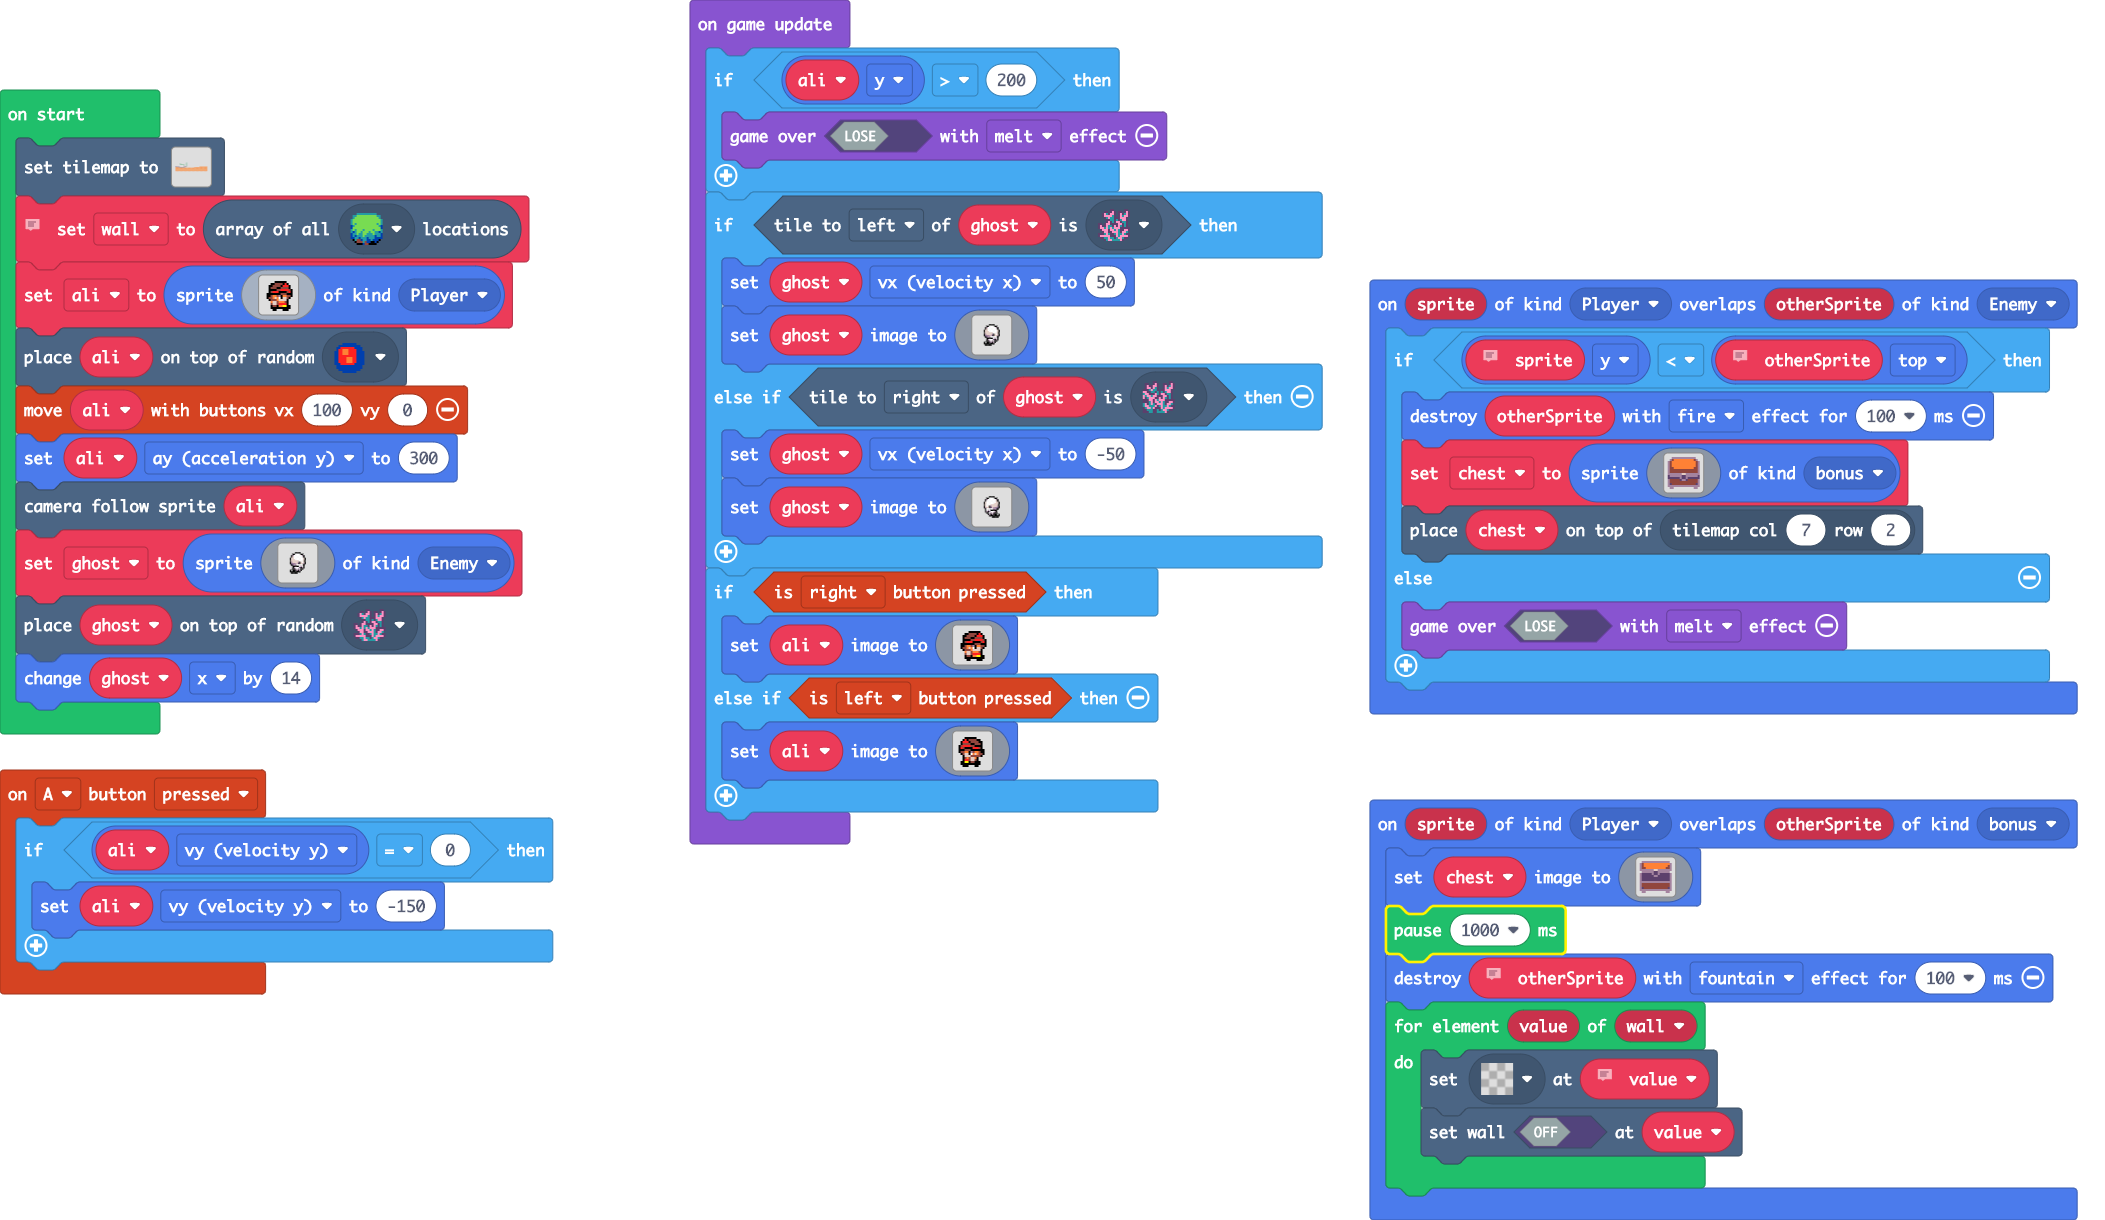
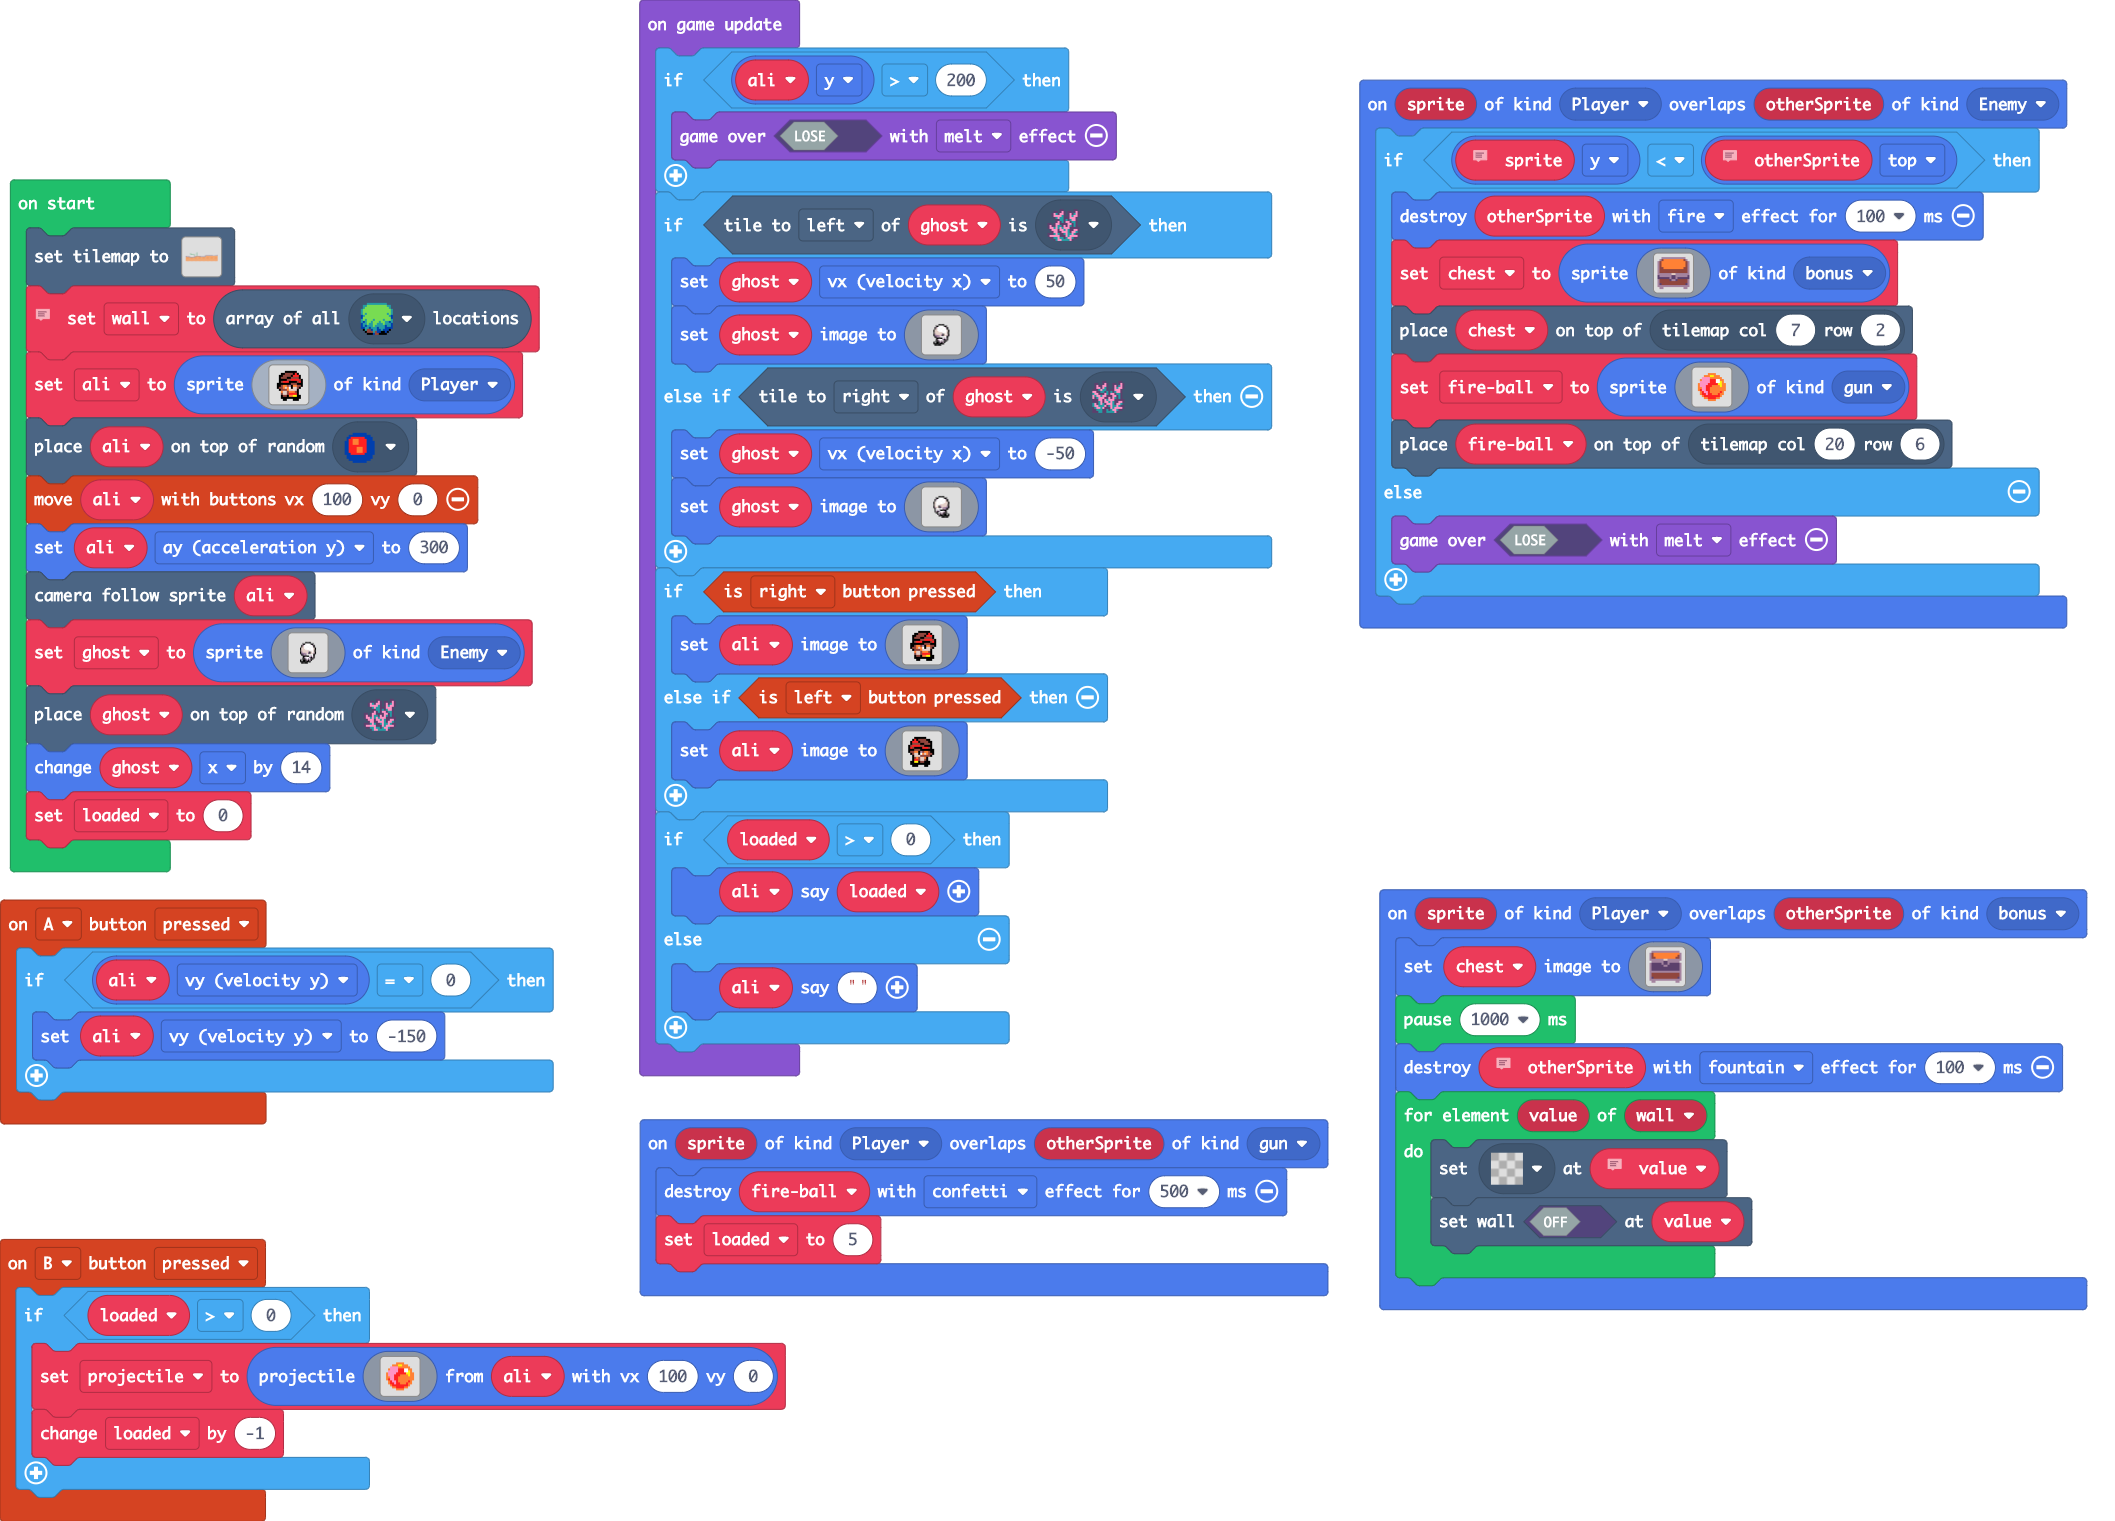
Created shooting feature after removing the wall

diff --git a/main.ts b/main.ts
@@ -1,6 +1,34 @@
 namespace SpriteKind {
     export const bonus = SpriteKind.create()
+    export const gun = SpriteKind.create()
 }
+controller.B.onEvent(ControllerButtonEvent.Pressed, function () {
+    if (loaded > 0) {
+        projectile = sprites.createProjectileFromSprite(img`
+            . . . . . . . . . . . . . . . . 
+            . . . . . . 4 4 4 4 . . . . . . 
+            . . . . 4 4 4 5 5 4 4 4 . . . . 
+            . . . 3 3 3 3 4 4 4 4 4 4 . . . 
+            . . 4 3 3 3 3 2 2 2 1 1 4 4 . . 
+            . . 3 3 3 3 3 2 2 2 1 1 5 4 . . 
+            . 4 3 3 3 3 2 2 2 2 2 5 5 4 4 . 
+            . 4 3 3 3 2 2 2 4 4 4 4 5 4 4 . 
+            . 4 4 3 3 2 2 4 4 4 4 4 4 4 4 . 
+            . 4 2 3 3 2 2 4 4 4 4 4 4 4 4 . 
+            . . 4 2 3 3 2 4 4 4 4 4 2 4 . . 
+            . . 4 2 2 3 2 2 4 4 4 2 4 4 . . 
+            . . . 4 2 2 2 2 2 2 2 2 4 . . . 
+            . . . . 4 4 2 2 2 2 4 4 . . . . 
+            . . . . . . 4 4 4 4 . . . . . . 
+            . . . . . . . . . . . . . . . . 
+            `, ali, 100, 0)
+        loaded += -1
+    }
+})
+sprites.onOverlap(SpriteKind.Player, SpriteKind.gun, function (sprite, otherSprite) {
+    fireball.destroy(effects.confetti, 500)
+    loaded = 5
+})
 sprites.onOverlap(SpriteKind.Player, SpriteKind.bonus, function (sprite, otherSprite) {
     chest.setImage(img`
         . b b b b b b b b b b b b b b . 
@@ -58,23 +86,45 @@ sprites.onOverlap(SpriteKind.Player, SpriteKind.Enemy, function (sprite, otherSp
             . b b . . . . . . . . . . b b . 
             `, SpriteKind.bonus)
         tiles.placeOnTile(chest, tiles.getTileLocation(7, 2))
+        fireball = sprites.create(img`
+            . . . . . . . . . . . . . . . . 
+            . . . . . . 4 4 4 4 . . . . . . 
+            . . . . 4 4 4 5 5 4 4 4 . . . . 
+            . . . 3 3 3 3 4 4 4 4 4 4 . . . 
+            . . 4 3 3 3 3 2 2 2 1 1 4 4 . . 
+            . . 3 3 3 3 3 2 2 2 1 1 5 4 . . 
+            . 4 3 3 3 3 2 2 2 2 2 5 5 4 4 . 
+            . 4 3 3 3 2 2 2 4 4 4 4 5 4 4 . 
+            . 4 4 3 3 2 2 4 4 4 4 4 4 4 4 . 
+            . 4 2 3 3 2 2 4 4 4 4 4 4 4 4 . 
+            . . 4 2 3 3 2 4 4 4 4 4 2 4 . . 
+            . . 4 2 2 3 2 2 4 4 4 2 4 4 . . 
+            . . . 4 2 2 2 2 2 2 2 2 4 . . . 
+            . . . . 4 4 2 2 2 2 4 4 . . . . 
+            . . . . . . 4 4 4 4 . . . . . . 
+            . . . . . . . . . . . . . . . . 
+            `, SpriteKind.gun)
+        tiles.placeOnTile(fireball, tiles.getTileLocation(20, 6))
     } else {
         game.over(false, effects.melt)
     }
 })
 let chest: Sprite = null
+let fireball: Sprite = null
+let projectile: Sprite = null
+let loaded = 0
 let ali: Sprite = null
 let wall: tiles.Location[] = []
[2 lines of base64/hex data omitted]
     ........................................................
     ...................2....................................
     ...................2....................................
     .......222.........2....................................
     .........222222....2....................................
     ..............22...2....................................
-    ...................2....................................
-    .................222....................................
-    2222222........222......................................
+    ...................2..............22222222222222..22.222
+    .................222222222........2.....................
+    2222222........222.......2222222222.....................
     ......2222222222........................................
     ........................................................
     ........................................................
@@ -82,7 +132,7 @@ tiles.setTilemap(tiles.createTilemap(hex`380010000000000000000000000000000000000
     ........................................................
     ........................................................
     ........................................................
-    `, [myTiles.transparency16,sprites.builtin.oceanDepths0,myTiles.tile1,sprites.dungeon.hazardLava0,sprites.dungeon.hazardLava1,sprites.builtin.coral0,sprites.builtin.coral5,sprites.builtin.forestTiles0,sprites.builtin.forestTiles3,sprites.builtin.forestTiles2,sprites.builtin.forestTiles1], TileScale.Sixteen))
+    `, [myTiles.transparency16,sprites.builtin.oceanDepths0,myTiles.tile1,sprites.dungeon.hazardLava0,sprites.dungeon.hazardLava1,sprites.builtin.coral0,sprites.builtin.coral5,sprites.builtin.forestTiles0,sprites.builtin.forestTiles3,sprites.builtin.forestTiles2,sprites.builtin.forestTiles1,sprites.castle.rock1], TileScale.Sixteen))
 // En liste over alle de lokationer af blokke vi gerne vil fjerne efter vi har dræbt vores "ENEMY"
 wall = tiles.getTilesByType(sprites.builtin.forestTiles0)
 ali = sprites.create(img`
@@ -135,6 +185,7 @@ let ghost = sprites.create(img`
     `, SpriteKind.Enemy)
 tiles.placeOnRandomTile(ghost, sprites.builtin.coral0)
 ghost.x += 14
+loaded = 0
 game.onUpdate(function () {
     if (ali.y > 200) {
         game.over(false, effects.melt)
@@ -234,5 +285,10 @@ game.onUpdate(function () {
             . . f f f f f f f f f f . . . . 
             . . . f f f . . . f f . . . . . 
             `)
+    }
+    if (loaded > 0) {
+        ali.say(loaded)
+    } else {
+        ali.say("")
     }
 })
